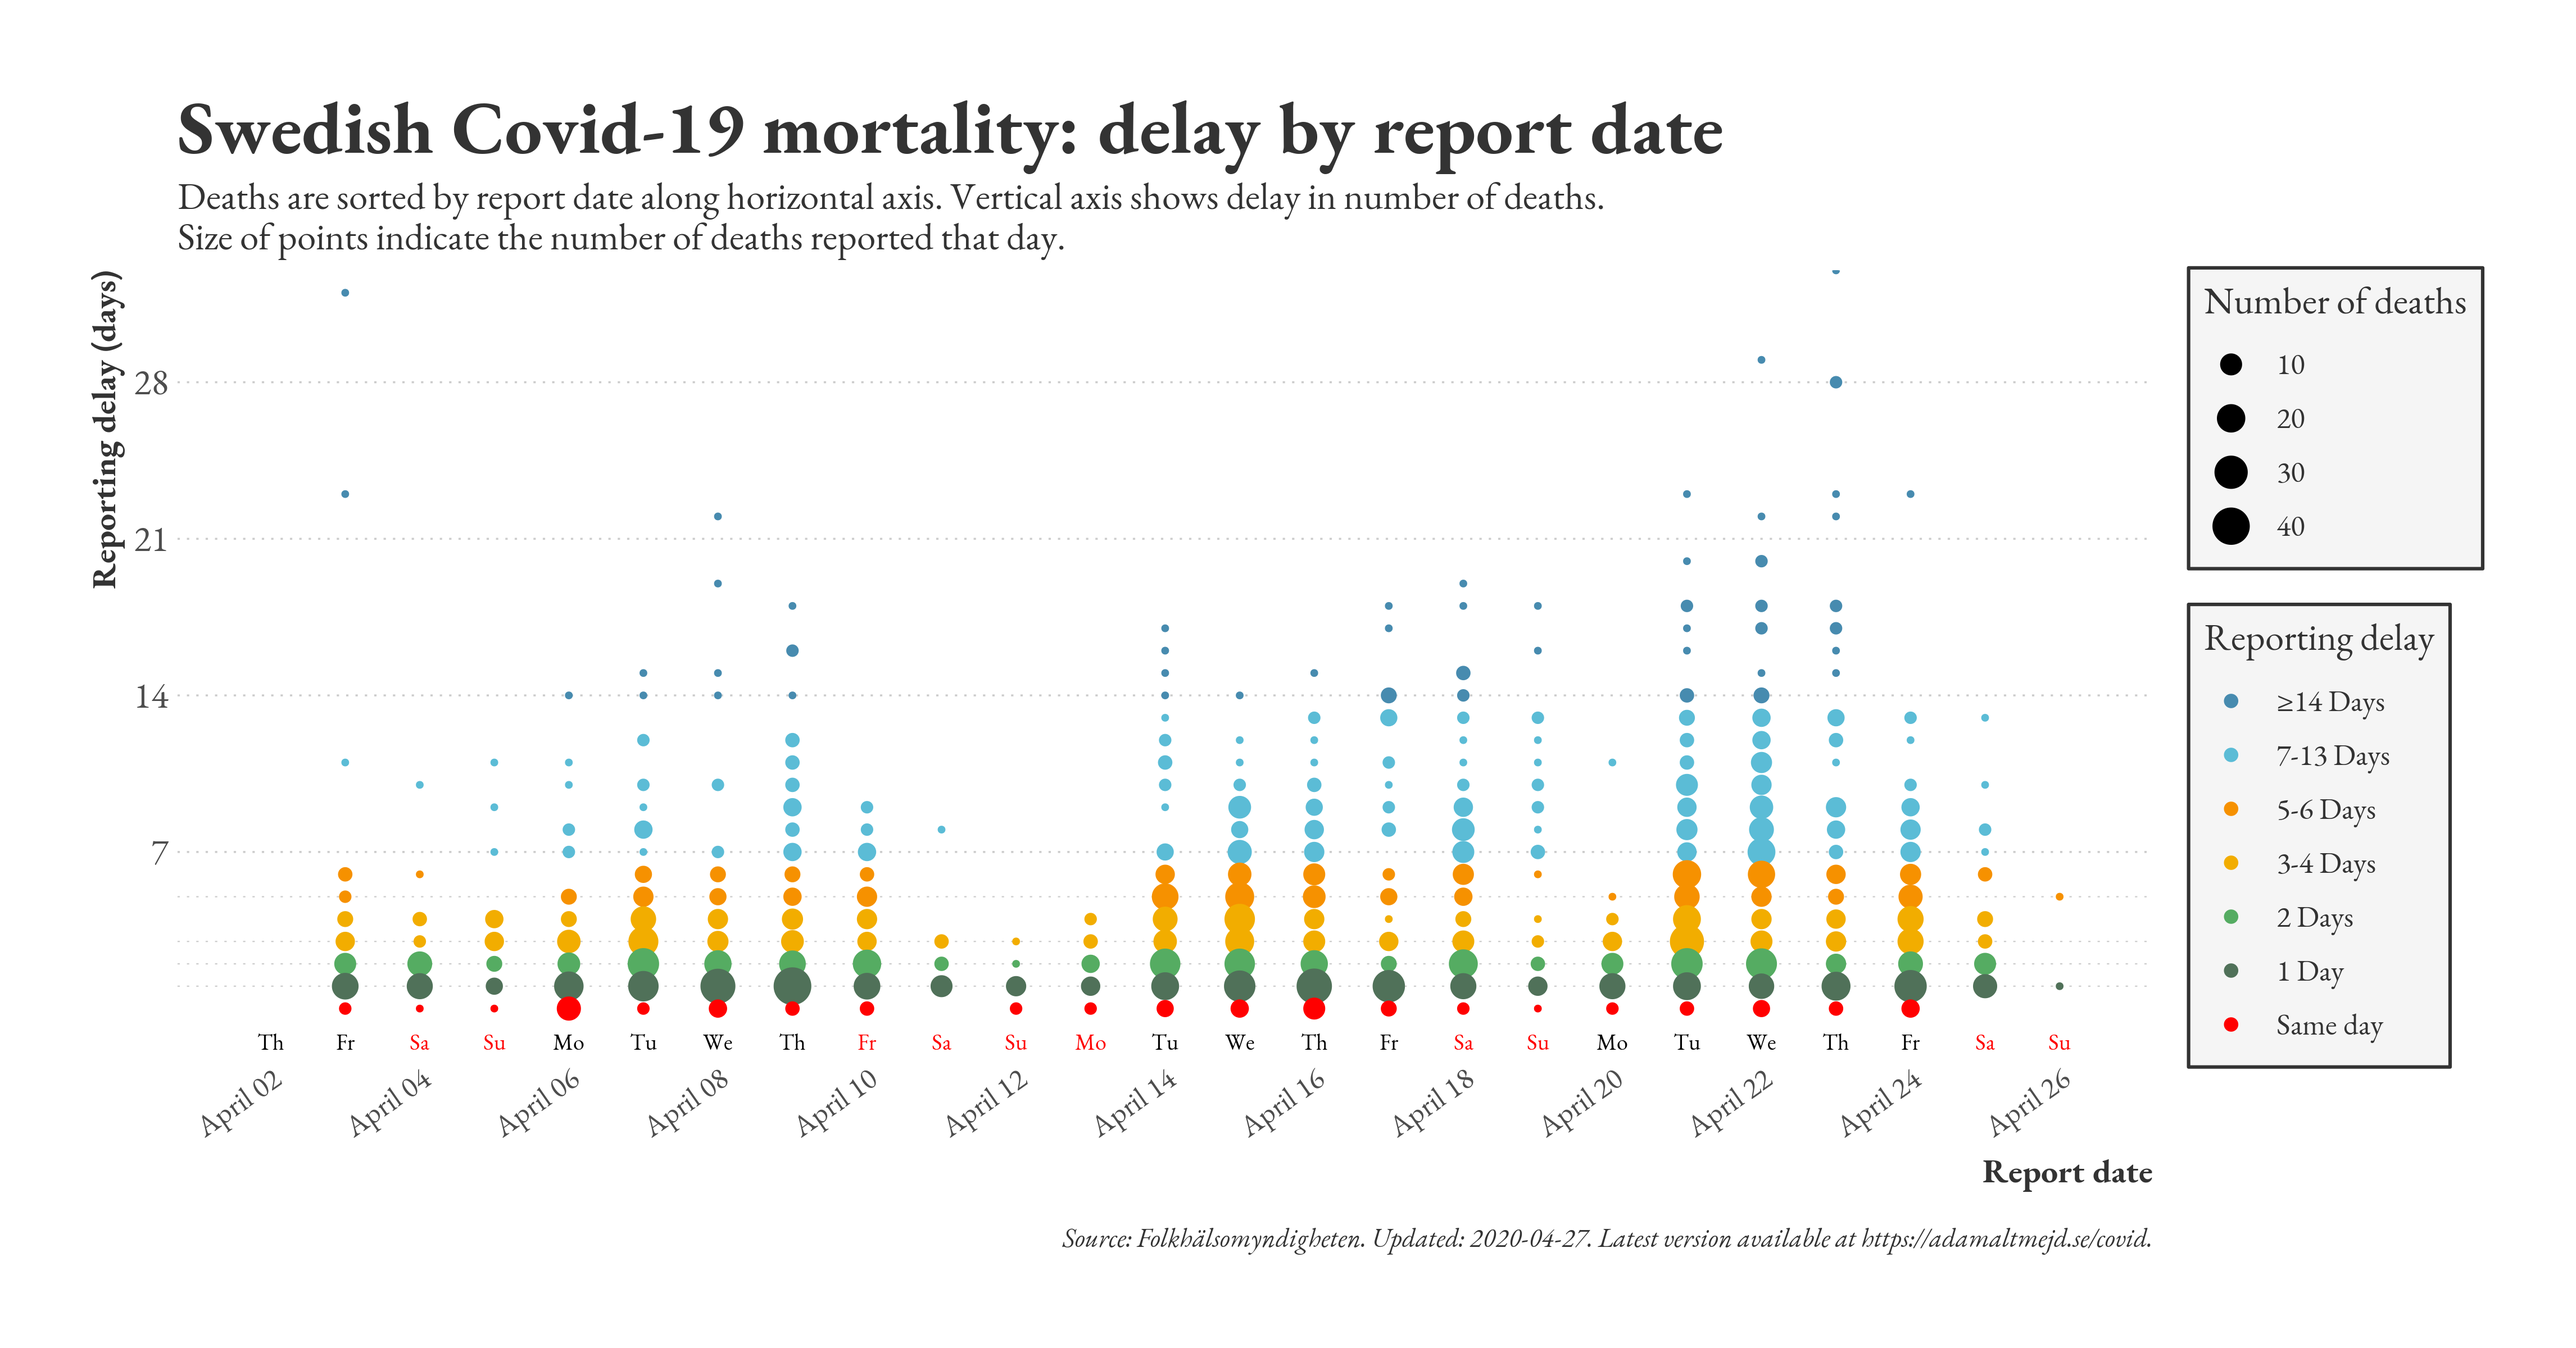
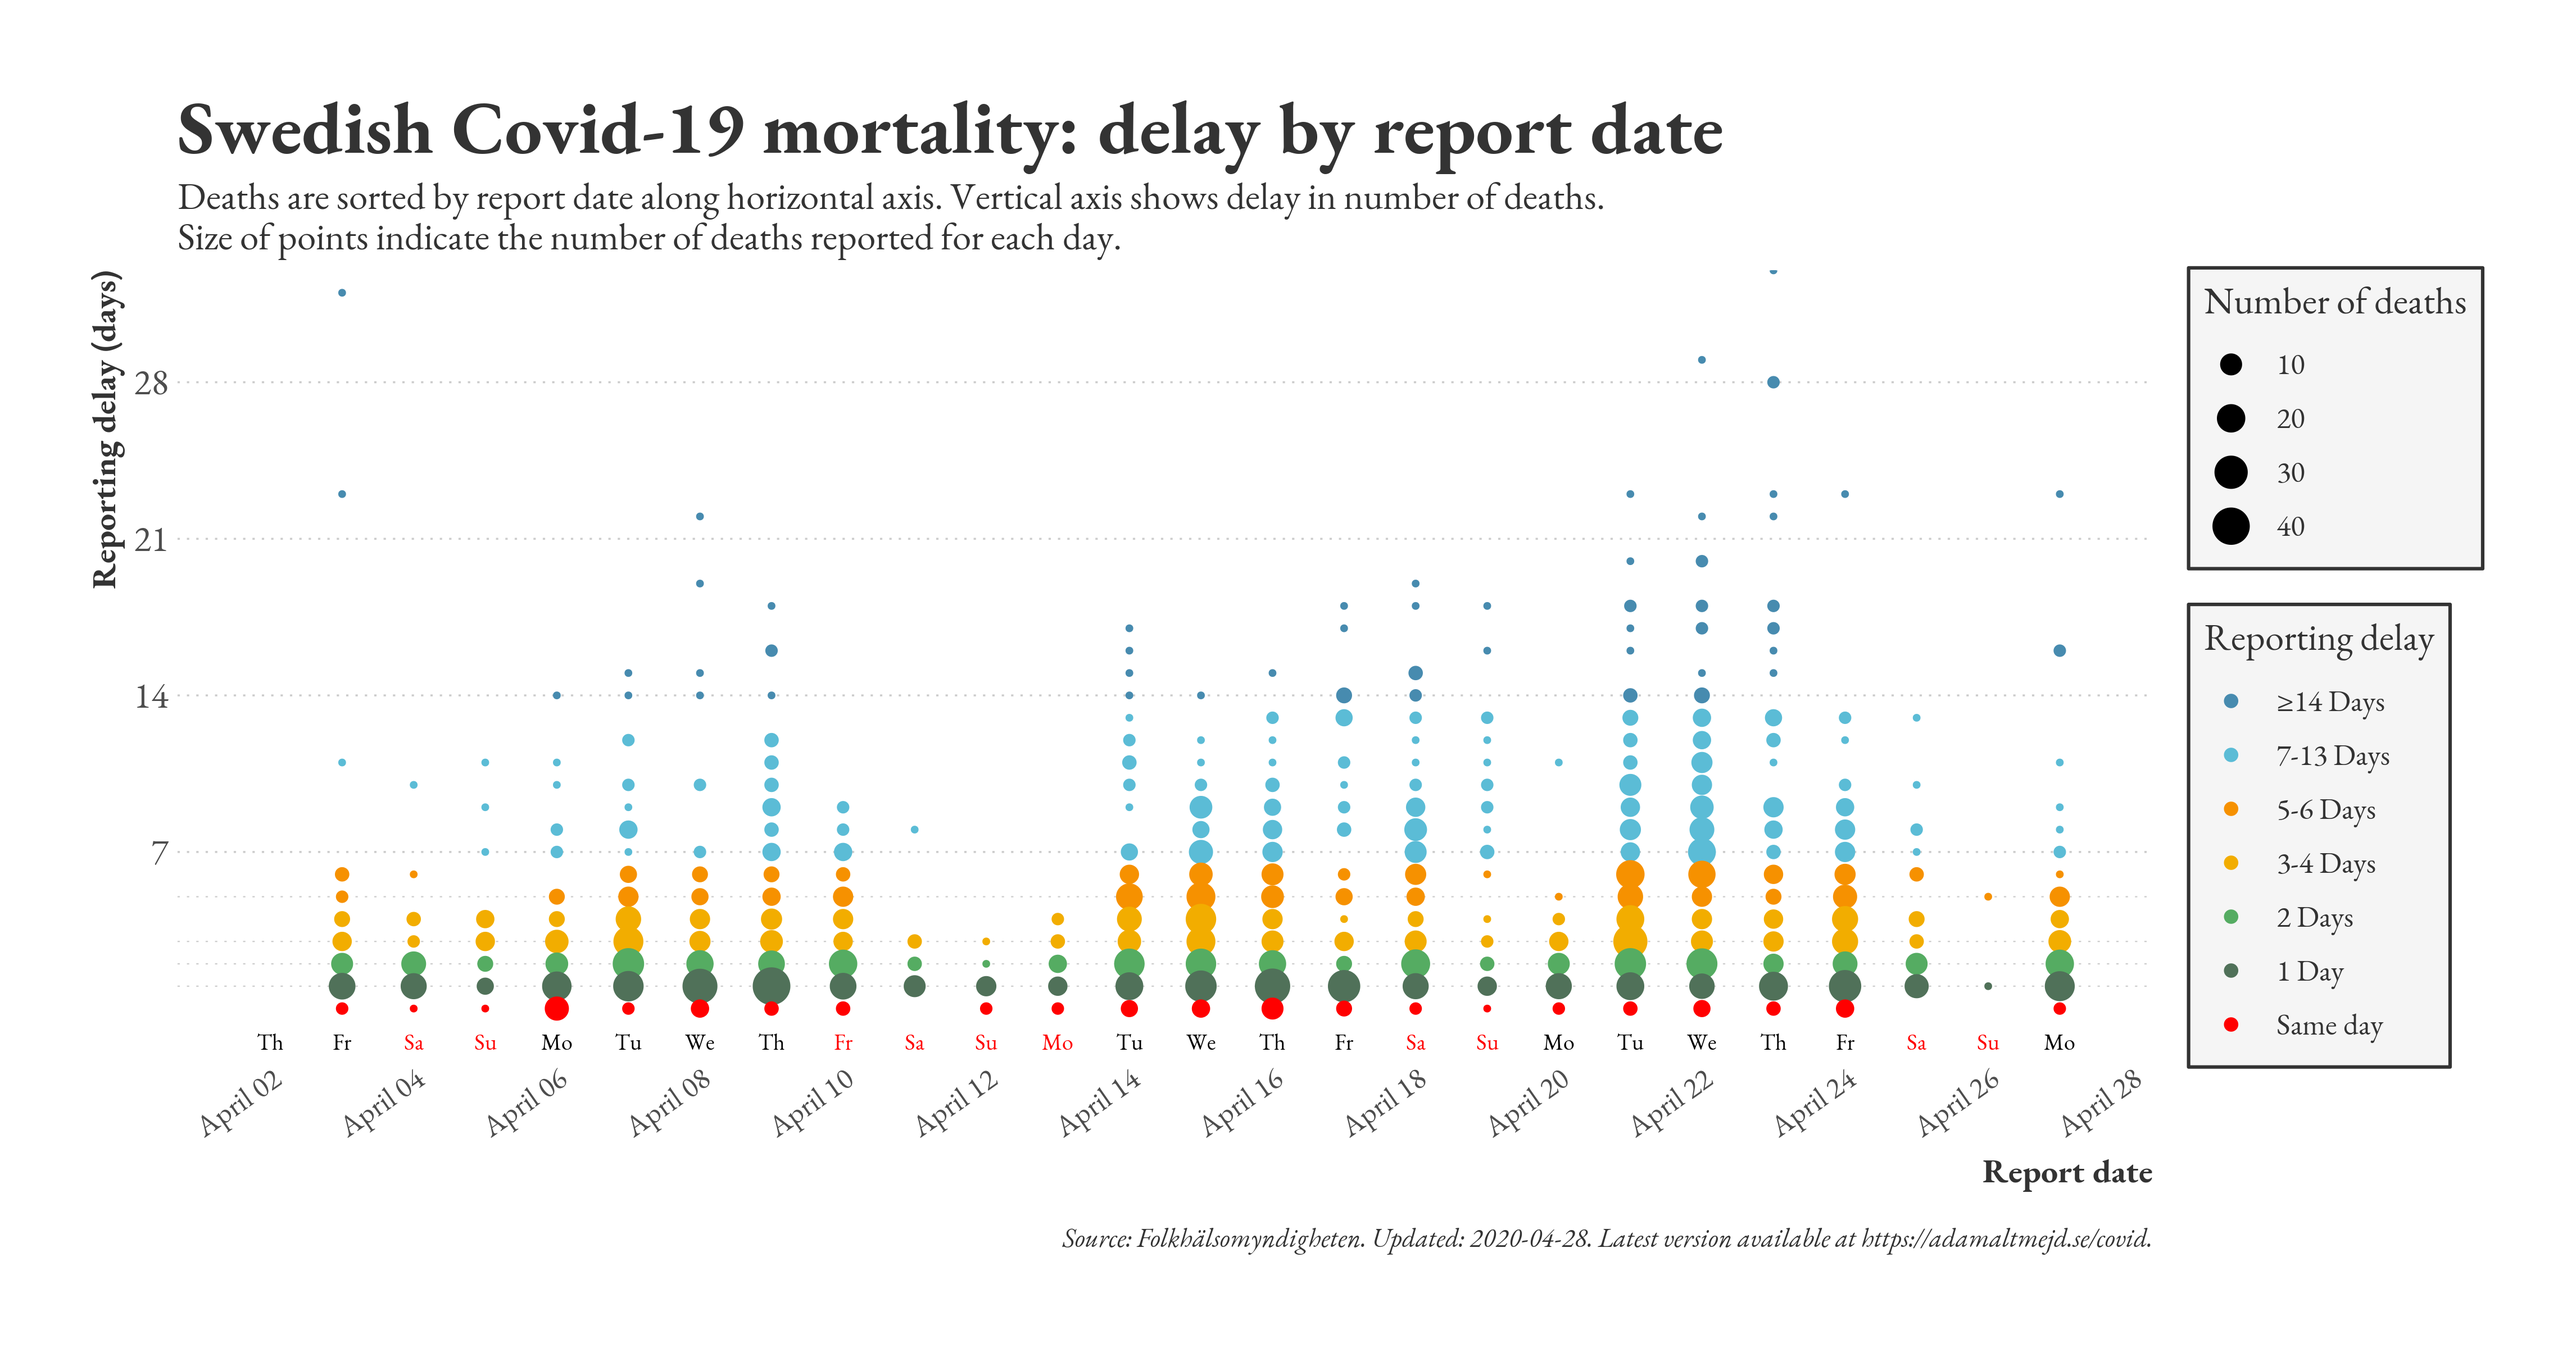
daily update

diff --git a/docs/index.md b/docs/index.md
@@ -2,9 +2,9 @@
 layout: page
 title: Reported Covid-19 deaths in Sweden
 author: Adam Altmejd
-date: 2020-04-27
+date: 2020-04-28
 ---
 
-![Graph of Swedish Covid-19 deaths with reporting delay.](deaths_lag_sweden_2020-04-27.png "Swedish Covid-19 deaths.")
-![Graph of Swedish Covid-19 reporting delay in daily deaths.](lag_trend_sweden_2020-04-27.png "Trend in Swedish Covid-19 mortality reporting delay.")
+![Graph of Swedish Covid-19 deaths with reporting delay.](deaths_lag_sweden_2020-04-28.png "Swedish Covid-19 deaths.")
+![Graph of Swedish Covid-19 reporting delay in daily deaths.](lag_trend_sweden_2020-04-28.png "Trend in Swedish Covid-19 mortality reporting delay.")
 For code and data, visit <https://github.com/adamaltmejd/covid>.
